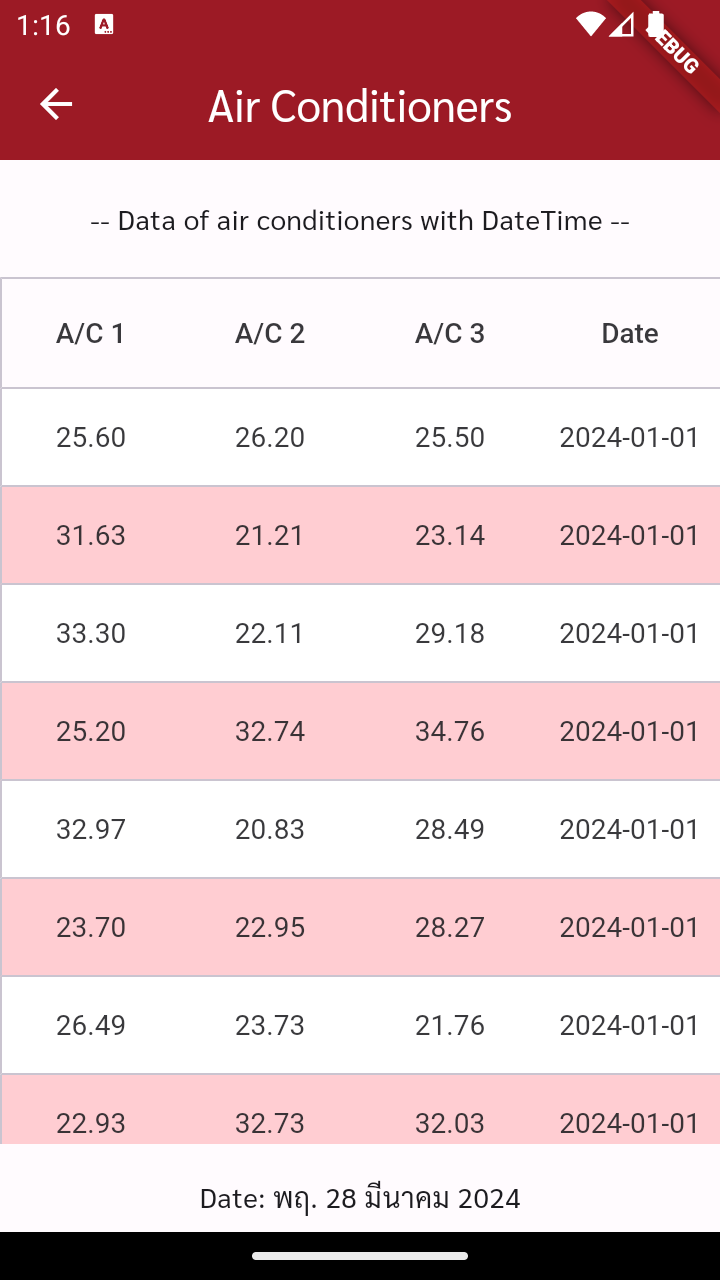
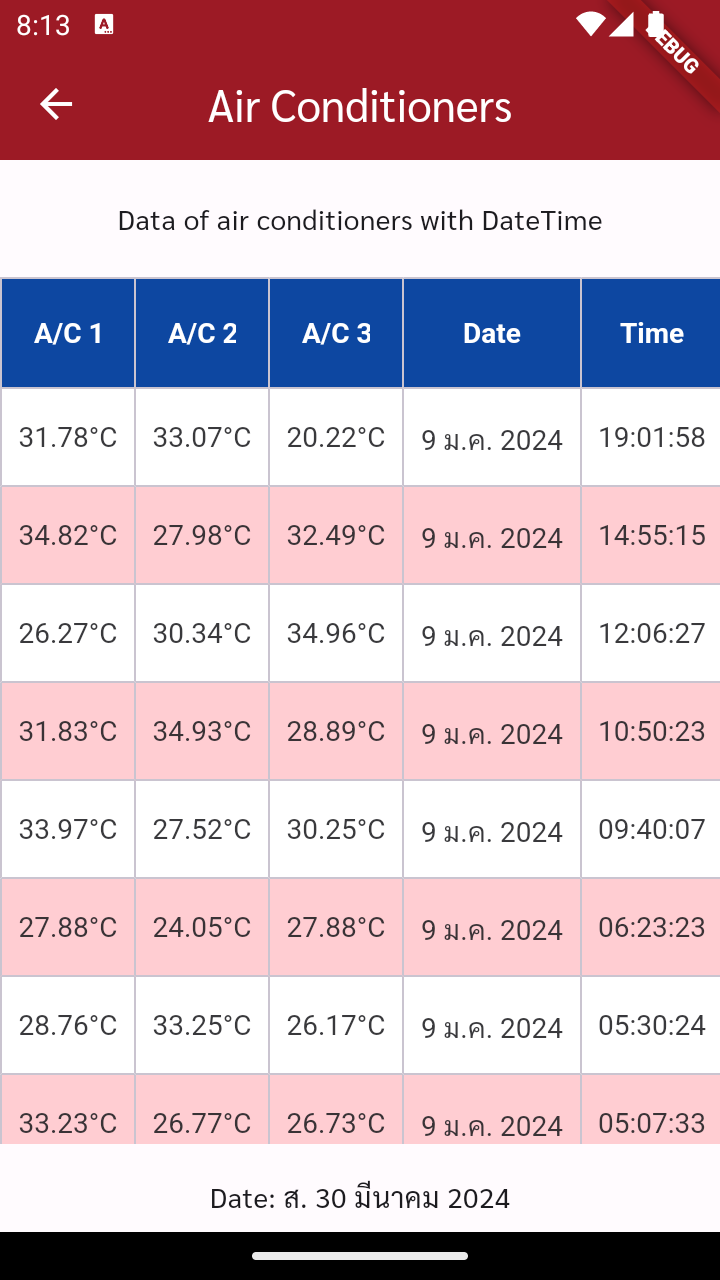
Add Page A/C 1 to 3 with dynamic class InfoAirConUI

diff --git a/lib/views/info_air_conditioner.dart b/lib/views/info_air_conditioner.dart
@@ -7,84 +7,61 @@ import 'package:iot_test_project/widgets/my_padding.dart';
 import 'package:syncfusion_flutter_datagrid/datagrid.dart';
 
 class InfoAirConUI extends StatefulWidget {
-  const InfoAirConUI({super.key});
+  final int? air;
+
+  const InfoAirConUI({Key? key, this.air}) : super(key: key);
 
   @override
   State<InfoAirConUI> createState() => _InfoAirConUIState();
 }
 
 class _InfoAirConUIState extends State<InfoAirConUI> {
-  Future CallApigetAllRoom() async {
-    var rooms = await CallApi.getAllRoom();
-    if (rooms.isNotEmpty) {
-      return showTableDetail(rooms);
+  Future getRoom(air) async {
+    List<Room> rooms;
+    if (air != null) {
+      rooms = await CallApi.getRoom(air);
+    } else {
+      rooms = await CallApi.getAllRoom();
     }
+    return ShowTableDetail(rooms);
   }
 
-  List<GridColumn> createHeaderTable() {
+  List<GridColumn> createHeaderTable(columns) {
     return <GridColumn>[
-      GridColumn(
-        columnName: 'temp1',
-        label: Container(
-          padding: const EdgeInsets.all(8),
-          alignment: Alignment.center,
-          child: const Text(
-            'A/C 1',
-            overflow: TextOverflow.ellipsis,
+      for (var col in columns)
+        GridColumn(
+          columnName: col,
+          autoFitPadding: const EdgeInsets.all(8),
+          label: Container(
+            decoration: BoxDecoration(
+              color: Colors.blue[900],
+            ),
+            padding: const EdgeInsets.all(16.0),
+            alignment: Alignment.center,
+            child: Text(
+              col,
+              softWrap: false,
+              style: const TextStyle(
+                  fontWeight: FontWeight.bold, color: Colors.white),
+            ),
           ),
-        ),
-      ),
-      GridColumn(
-        columnName: 'temp2',
-        label: Container(
-          padding: const EdgeInsets.all(8),
-          alignment: Alignment.center,
-          child: const Text(
-            'A/C 2',
-            overflow: TextOverflow.ellipsis,
-          ),
-        ),
-      ),
-      GridColumn(
-        columnName: 'temp3',
-        label: Container(
-          padding: const EdgeInsets.all(8),
-          alignment: Alignment.center,
-          child: const Text(
-            'A/C 3',
-            overflow: TextOverflow.ellipsis,
-          ),
-        ),
-      ),
-      GridColumn(
-        columnName: 'datesave',
-        label: Container(
-          padding: const EdgeInsets.all(8),
-          alignment: Alignment.center,
-          child: const Text(
-            'Date',
-            overflow: TextOverflow.ellipsis,
-          ),
-        ),
-      ),
-      GridColumn(
-        columnName: 'timesave',
-        label: Container(
-          padding: const EdgeInsets.all(8),
-          alignment: Alignment.center,
-          child: const Text(
-            'Time',
-            overflow: TextOverflow.ellipsis,
-          ),
-        ),
-      ),
+        )
     ];
   }
 
   @override
   Widget build(BuildContext context) {
+    var columns = ['A/C 1', 'A/C 2', 'A/C 3', 'Date', 'Time'];
+    if (widget.air == 1) {
+      columns = ['A/C 1', 'Date', 'Time'];
+    } else if (widget.air == 2) {
+      columns = ['A/C 2', 'Date', 'Time'];
+    } else if (widget.air == 3) {
+      columns = ['A/C 3', 'Date', 'Time'];
+    }
+
     DateFormat dateFormat = DateFormat('EEE d MMMM y', 'th_TH');
-    var dateTime = new DateTime.now();
+    var dateTime = DateTime.now();
     var date = dateFormat.format(dateTime);
 
     return MyAppBar(
@@ -92,29 +69,37 @@ class _InfoAirConUIState extends State<InfoAirConUI> {
       child: Center(
         child: Column(
           children: [
-            const MyPadding(
+            MyPadding(
               size: 0.03,
               isFirstChild: true,
               child: Text(
-                '-- Data of air conditioners with DateTime --',
-                style: TextStyle(
+                (widget.air != null
+                    ? 'Data of air conditioner ${widget.air}'
+                    : 'Data of air conditioners with DateTime'),
+                style: const TextStyle(
                   fontSize: 14,
                 ),
               ),
             ),
             Expanded(
-              child: FutureBuilder(
-                future: CallApigetAllRoom(),
-                builder: (context, snapshot) => snapshot.hasData
-                    ? SfDataGrid(
-                        source: snapshot.data as showTableDetail,
-                        columns: createHeaderTable(),
-                      )
-                    : const Center(
-                        child: CircularProgressIndicator(),
-                      ),
-              ),
-            ),
+                child: FutureBuilder(
+              future: getRoom(widget.air),
+              builder: (context, snapshot) => snapshot.hasData
+                  ? SfDataGrid(
+                      source: snapshot.data as ShowTableDetail,
+                      gridLinesVisibility: GridLinesVisibility.both,
+                      headerGridLinesVisibility: GridLinesVisibility.both,
+                      columnWidthMode: (widget.air != null
+                          ? ColumnWidthMode.fill
+                          : ColumnWidthMode.auto),
+                      columnWidthCalculationRange:
+                          ColumnWidthCalculationRange.allRows,
+                      columns: createHeaderTable(columns),
+                    )
+                  : const Center(
+                      child: CircularProgressIndicator(),
+                    ),
+            )),
             MyPadding(
               size: 0.025,
               isLastChild: true,
@@ -129,20 +114,27 @@ class _InfoAirConUIState extends State<InfoAirConUI> {
   }
 }
 
-class showTableDetail extends DataGridSource {
+class ShowTableDetail extends DataGridSource {
   late List<DataGridRow> dataGridRow;
   late List<Room> rooms;
 
-  showTableDetail(this.rooms) {
+  ShowTableDetail(this.rooms) {
     dataGridRow = rooms
-        .map<DataGridRow>((room) => DataGridRow(cells: [
-              DataGridCell<String>(columnName: 'temp1', value: room.temp1),
-              DataGridCell<String>(columnName: 'temp2', value: room.temp2),
-              DataGridCell<String>(columnName: 'temp3', value: room.temp3),
+        .map<DataGridRow>((e) => DataGridRow(cells: [
+              if (e.temp1 != null)
+                (DataGridCell<String>(
+                    columnName: 'A/C 1', value: '${e.temp1}°C')),
+              if (e.temp2 != null)
+                (DataGridCell<String>(
+                    columnName: 'A/C 2', value: '${e.temp2}°C')),
+              if (e.temp3 != null)
+                (DataGridCell<String>(
+                    columnName: 'A/C 3', value: '${e.temp3}°C')),
               DataGridCell<String>(
-                  columnName: 'datesave', value: room.datesave),
-              DataGridCell<String>(
-                  columnName: 'timesave', value: room.timesave),
+                  columnName: 'Date',
+                  value: DateFormat('d MMM y', 'th_TH')
+                      .format(DateTime.parse(e.datesave))),
+              DataGridCell<String>(columnName: 'Time', value: e.timesave)
             ]))
         .toList();
   }
@@ -157,10 +149,9 @@ class showTableDetail extends DataGridSource {
           effectiveRows.indexOf(row) % 2 == 0 ? Colors.white : Colors.red[100],
       cells: row.getCells().map<Widget>((e) {
         return Container(
-          alignment: Alignment.center,
-          padding: const EdgeInsets.all(8),
-          child: Text(e.value.toString()),
-        );
+            alignment: Alignment.center,
+            padding: const EdgeInsets.all(8.0),
+            child: Text(e.value.toString()));
       }).toList(),
     );
   }

diff --git a/lib/services/call_api.dart b/lib/services/call_api.dart
@@ -11,7 +11,7 @@ class CallApi {
   static Future<User> login(String username, String password) async {
     try {
       final response = await CallApi.post(
-          '/user/auth',
+          '/api/user/auth',
           {
             'username': username,
             'password': password,
@@ -32,7 +32,7 @@ class CallApi {
 
   static Future<User> register(User user) async {
     try {
-      final response = await CallApi.post('/user/register', user.toJson());
+      final response = await CallApi.post('/api/user/register', user.toJson());
       if (response.status) {
         var user = User.fromJson(response.data as Map<String, dynamic>);
         if (user.token != null) {
@@ -48,7 +48,8 @@ class CallApi {
 
   static Future<List<Room>> getAllRoom() async {
     try {
-      final response = await CallApi.get('/room');
+      final response = await CallApi.get('/api/room');
+
       List<Room> rooms = await response.data
           .map<Room>((room) => Room.fromJson(room as Map<String, dynamic>))
           .toList();
@@ -58,7 +59,34 @@ class CallApi {
     }
   }
 
-  static Future<ApiResponse> get(String uri, {bool auth = true}) async {
+  static Future<List<Room>> getRoom(air) async {
+    var select = [];
+
+    if (air == 1) {
+      select.add('temp1');
+    } else if (air == 2) {
+      select.add('temp2');
+    } else if (air == 3) {
+      select.add('temp3');
+    }
+
+    select.add('datesave');
+    select.add('timesave');
+
+    try {
+      final response =
+          await CallApi.get('/api/room', query: {'select[]': select});
+      List<Room> rooms = await response.data
+          .map<Room>((room) => Room.fromJson(room as Map<String, dynamic>))
+          .toList();
+      return rooms;
+    } catch (e) {
+      return [];
+    }
+  }
+
+  static Future<ApiResponse> get(String path,
+      {bool auth = true, Map<String, dynamic>? query}) async {
     var headers = <String, String>{
       'Content-Type': 'application/json; charset=UTF-8',
       'Accept': 'application/json',
@@ -68,10 +96,13 @@ class CallApi {
       headers['Authorization'] = Store.getValue('user', 'token');
     }
 
+    var uri = Uri.https(Config.BASE_URL, path, query);
+
     final response = await http.get(
-      Uri.parse('${Config.BASE_URL}$uri'),
+      uri,
       headers: headers,
     );
+
     if (response.statusCode == 200) {
       return ApiResponse.fromJson(
           jsonDecode(response.body) as Map<String, dynamic>);

diff --git a/lib/views/home_ui.dart b/lib/views/home_ui.dart
@@ -102,11 +102,32 @@ class _HomeUIState extends State<HomeUI> {
                     mainAxisAlignment: MainAxisAlignment.spaceBetween,
                     children: [
                       MyButtonMenu(
-                          text: "A/C 1", color: Colors.green, onPressed: () {}),
+                          text: "A/C 1",
+                          color: Colors.green,
+                          onPressed: () {
+                            Navigator.push(context,
+                                MaterialPageRoute(builder: (context) {
+                              return const InfoAirConUI(air: 1);
+                            }));
+                          }),
                       MyButtonMenu(
-                          text: "A/C 2", color: Colors.green, onPressed: () {}),
+                          text: "A/C 2",
+                          color: Colors.green,
+                          onPressed: () {
+                            Navigator.push(context,
+                                MaterialPageRoute(builder: (context) {
+                              return const InfoAirConUI(air: 2);
+                            }));
+                          }),
                       MyButtonMenu(
-                          text: "A/C 3", color: Colors.green, onPressed: () {})
+                          text: "A/C 3",
+                          color: Colors.green,
+                          onPressed: () {
+                            Navigator.push(context,
+                                MaterialPageRoute(builder: (context) {
+                              return const InfoAirConUI(air: 3);
+                            }));
+                          })
                     ],
                   ),
                   Row(

diff --git a/lib/models/room.dart b/lib/models/room.dart
@@ -1,18 +1,18 @@
 class Room {
   int? roomId;
-  String? temp1;
-  String? temp2;
-  String? temp3;
-  String? datesave;
-  String? timesave;
+  late String? temp1;
+  late String? temp2;
+  late String? temp3;
+  late String datesave;
+  late String timesave;
 
   Room(
       {this.roomId,
       this.temp1,
       this.temp2,
       this.temp3,
-      this.datesave,
-      this.timesave});
+      required this.datesave,
+      required this.timesave});
 
   Room.fromJson(Map<String, dynamic> json) {
     roomId = json['room_id'];

diff --git a/lib/utils/config.dart b/lib/utils/config.dart
@@ -1,7 +1,7 @@
 import 'package:flutter/material.dart';
 
 class Config {
-  static const String BASE_URL = 'https://deviot.dnratthee.me/api';
+  static const String BASE_URL = 'deviot.dnratthee.me';
   static const Color COLOR_RED = Color(0xff9c1a25);
   static const Color COLOR_BLUE = Color(0xff020367);
 }
